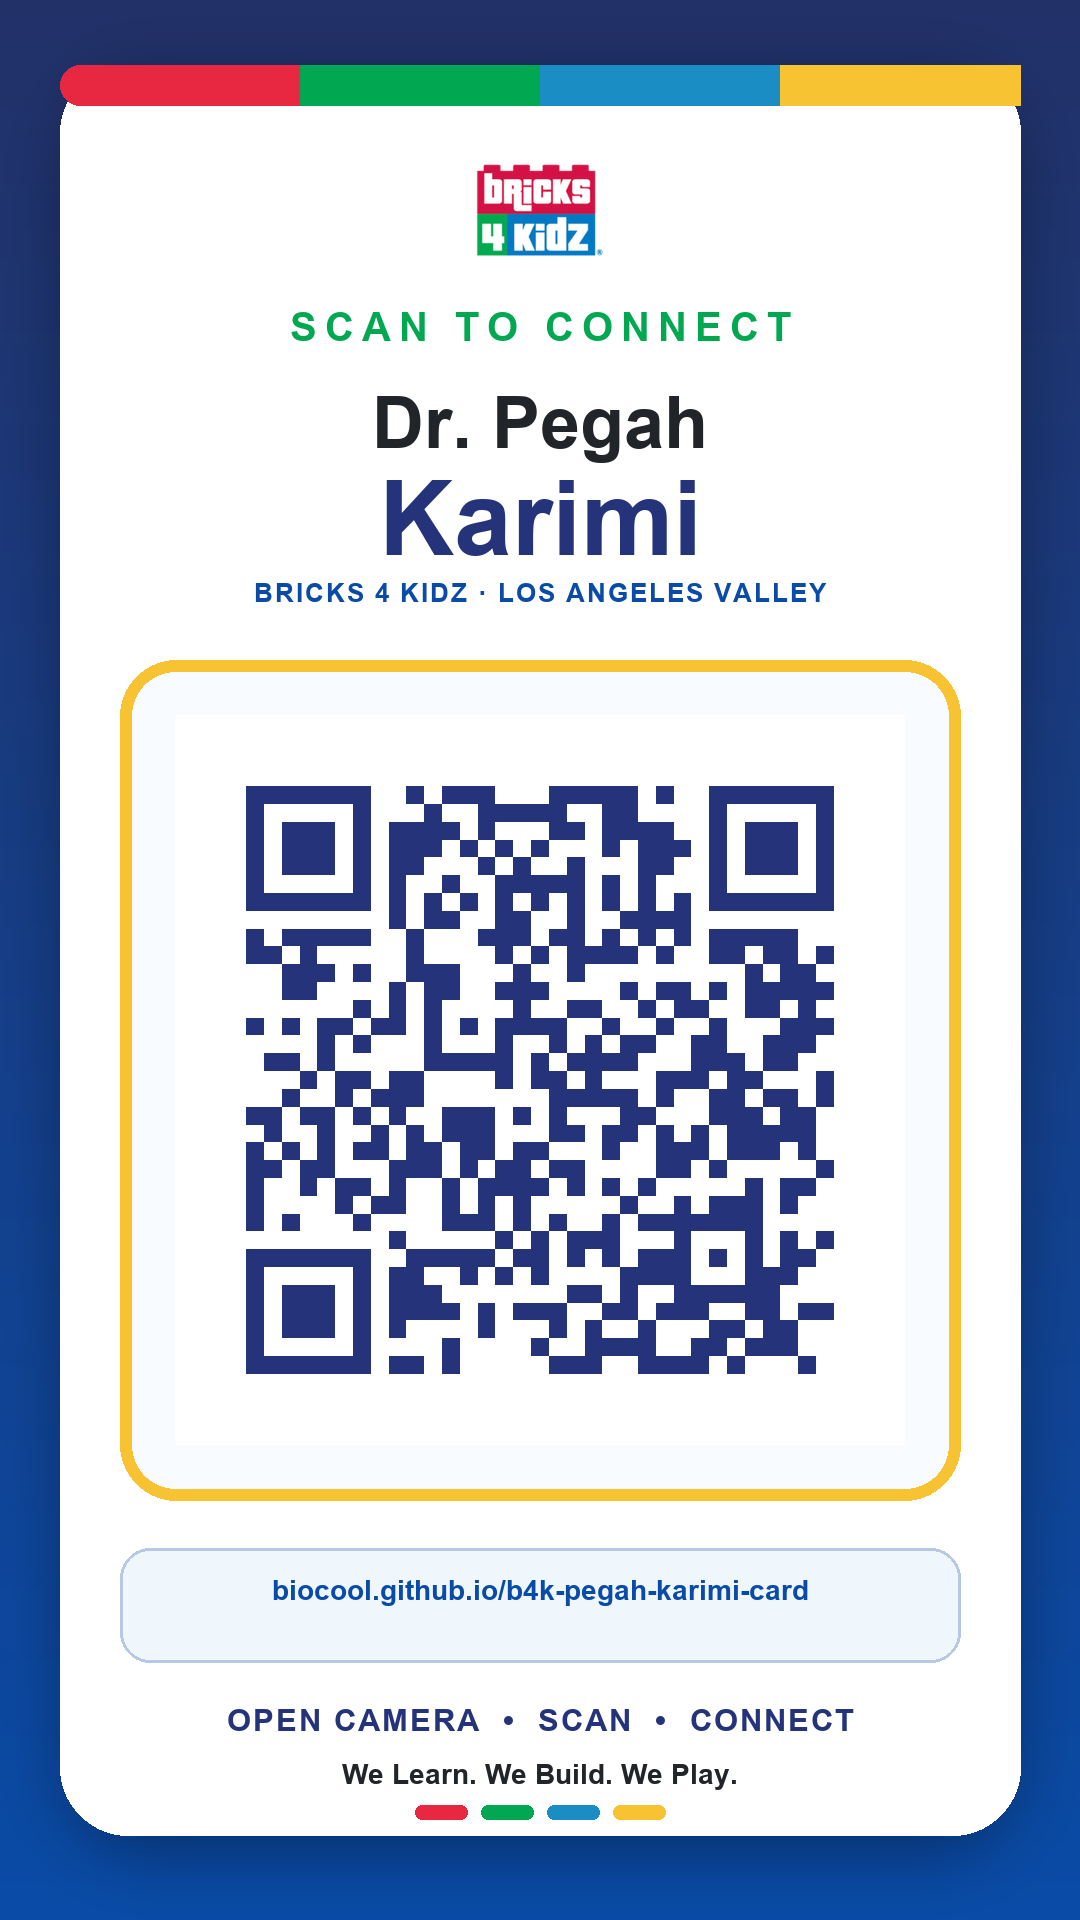
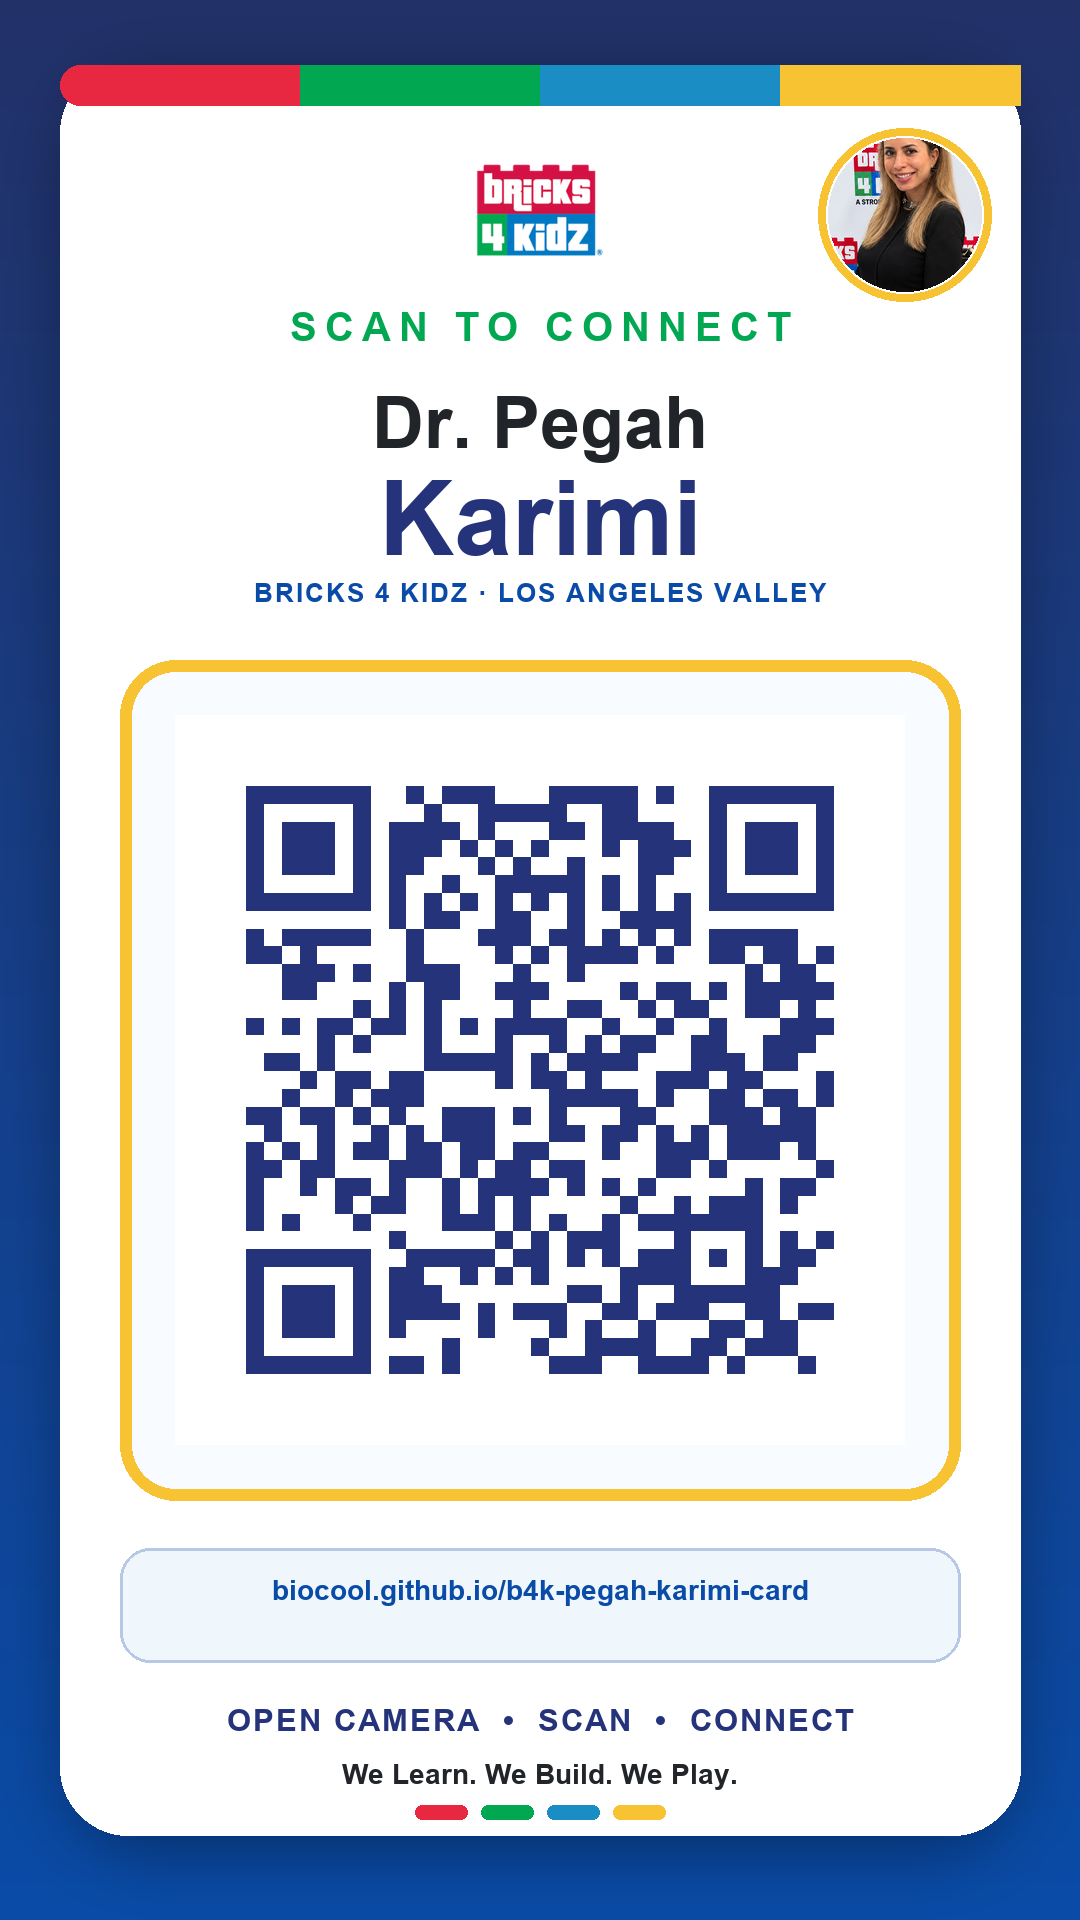
Update Pegah portrait across card and QR asset

Changed region(s): [[0.7333, 0.0625, 0.9167, 0.1562]]

diff --git a/index.html b/index.html
@@ -49,8 +49,8 @@
           <img
             src="assets/dr-pegah-karimi.png"
             alt="Dr. Pegah Karimi in front of a Bricks 4 Kidz backdrop"
-            width="912"
-            height="1118"
+            width="699"
+            height="979"
           />
         </div>
       </section>

diff --git a/styles.css b/styles.css
@@ -210,7 +210,7 @@ h1 span {
   min-height: 218px;
   display: block;
   object-fit: cover;
-  object-position: 50% 34%;
+  object-position: 50% 24%;
 }
 
 .portrait-dots {

diff --git a/scripts/generate_phone_card.py b/scripts/generate_phone_card.py
@@ -1,7 +1,6 @@
 from pathlib import Path
 
-from PIL import Image, ImageDraw, ImageFilter, ImageFont
-import qrcode
+from PIL import Image, ImageDraw, ImageFilter, ImageFont, ImageOps
 
 
 ROOT = Path(__file__).resolve().parents[1]
@@ -74,18 +73,27 @@ draw.rectangle((780, 65, 1020, 105), fill=YELLOW)
 image = Image.alpha_composite(image, card)
 draw = ImageDraw.Draw(image)
 
-qr_code = qrcode.QRCode(
-    error_correction=qrcode.constants.ERROR_CORRECT_M,
-    box_size=24,
-    border=4,
-)
-qr_code.add_data(CARD_URL)
-qr_code.make(fit=True)
-qr_code.make_image(fill_color=NAVY, back_color="white").convert("RGBA").save(ASSETS / "card-qr.png")
-
 logo = Image.open(ASSETS / "b4k-logo.png").convert("RGBA")
 logo = logo.resize((128, 128), Image.Resampling.LANCZOS)
 image.alpha_composite(logo, ((WIDTH - 128) // 2, 146))
+
+# Pegah portrait badge. Keep it outside the QR region so scan reliability is unchanged.
+portrait = Image.open(ASSETS / "dr-pegah-karimi.png").convert("RGB")
+portrait = ImageOps.fit(
+    portrait,
+    (154, 154),
+    method=Image.Resampling.LANCZOS,
+    bleed=0.16,
+    centering=(0.5, 0.18),
+).convert("RGBA")
+portrait_mask = Image.new("L", portrait.size, 0)
+ImageDraw.Draw(portrait_mask).ellipse((0, 0, 153, 153), fill=255)
+portrait.putalpha(portrait_mask)
+portrait_badge = Image.new("RGBA", (174, 174), (0, 0, 0, 0))
+badge_draw = ImageDraw.Draw(portrait_badge)
+badge_draw.ellipse((0, 0, 173, 173), fill="white", outline=YELLOW, width=8)
+portrait_badge.alpha_composite(portrait, (10, 10))
+image.alpha_composite(portrait_badge, (818, 128))
 
 centered(draw, 304, "SCAN TO CONNECT", font(40, True), GREEN, spacing=8)
 centered(draw, 382, "Dr. Pegah", font(72, True), CHARCOAL)
